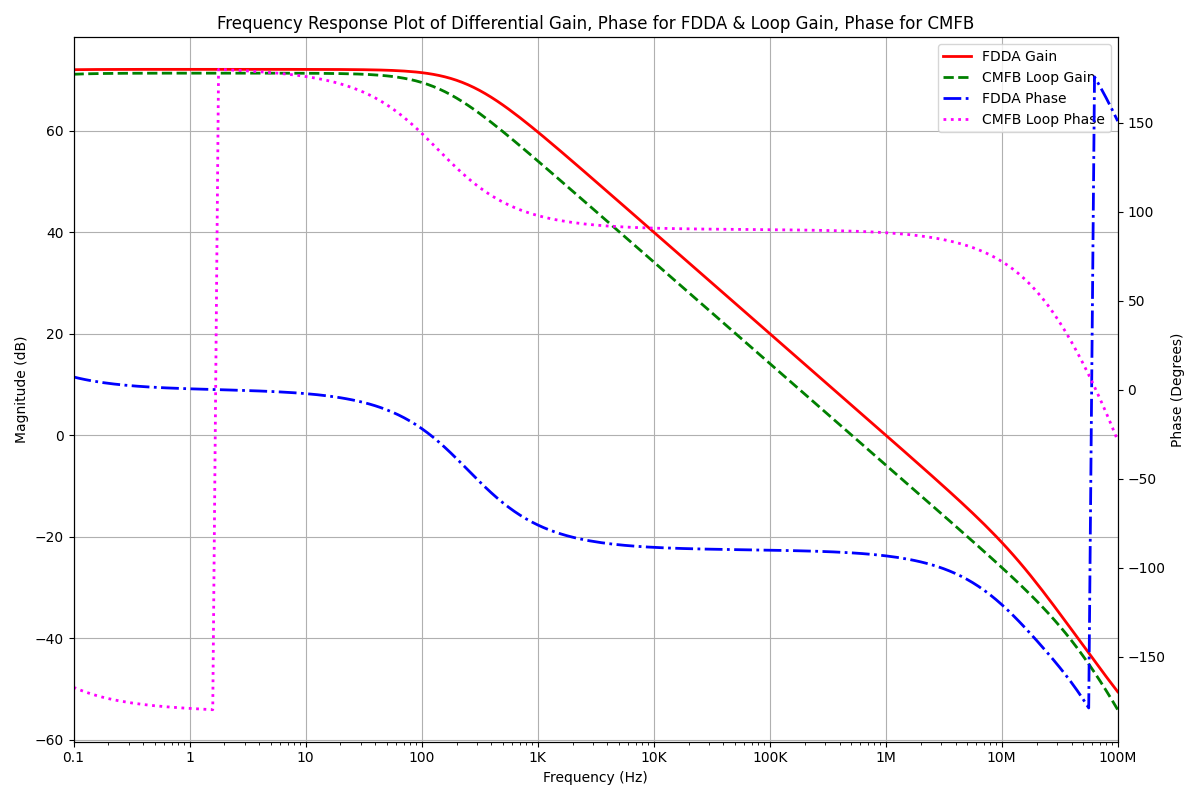
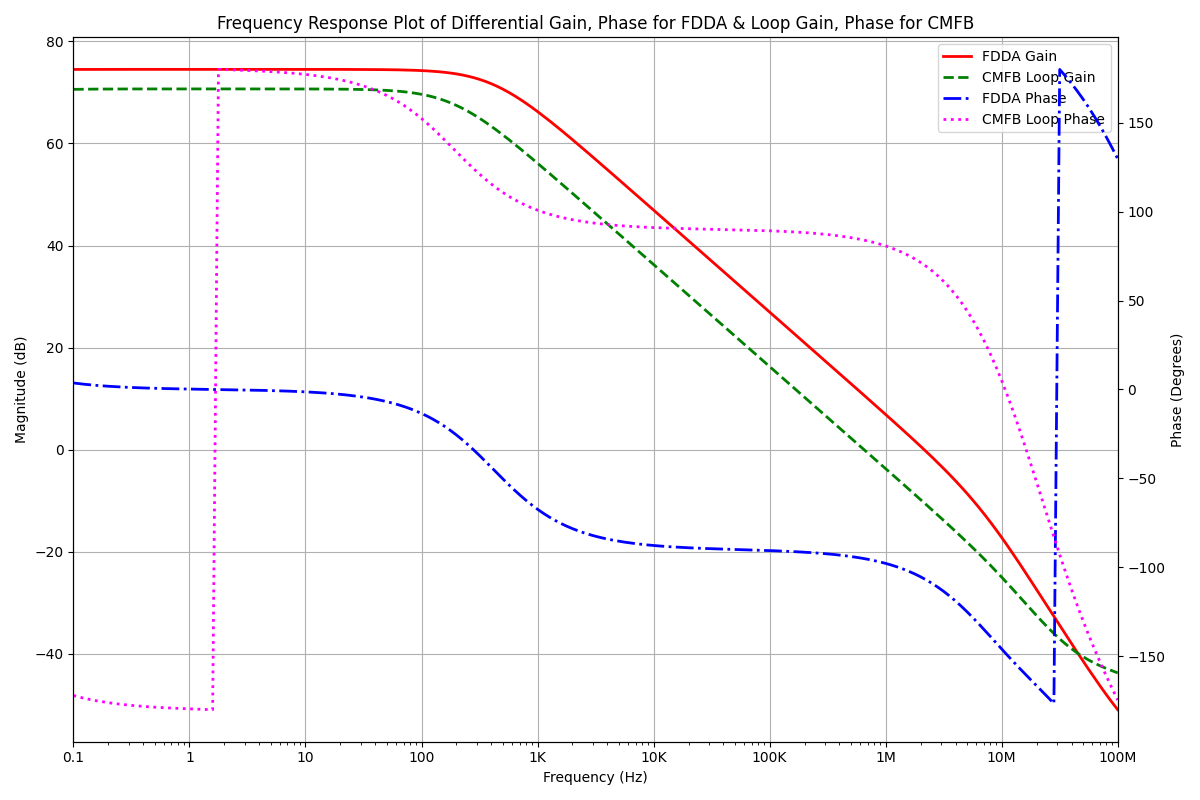
Testing noise for a large width device

diff --git a/Complete Framework/FDDA_CMFB/test.py b/Complete Framework/FDDA_CMFB/test.py
@@ -6,16 +6,20 @@ from simulator import evaluate_design
 
 if __name__ == "__main__":
     # Example particle
-    particle = np.array([18, 15, 15, 15, 15, 15, 13, 13, 13, 13, 13, 13, 5e-6, 1.5, 0.3])
+    particle = np.array([19.1743, 14.2497, 12.1117, 12.5996, 12.0605, 11.0269, 6, 15, 8, 15, 14, 8, 15, 4.4422e-6])
     
     passed, area, specs = survivability_test(particle)
     
     if passed:
-        print("Particle meets all specifications!")
-        print(f"Area: {area:.2e} m^2")
-        print("Specifications:")
-        for spec_name, spec_value in specs.items():
-            print(f"  {spec_name}: {spec_value:.2e}")
+        print(f"\nArea: {area:.2f} μm²")
+
+        print("\n--- Performance Calculations ---")
+        if 'Gain_dB' in specs: print(f"  Gain_dB: {specs['Gain_dB']:.2f} dB")
+        if 'GBW' in specs:     print(f"  GBW:     {specs['GBW'] / 1e6:.2f} MHz")
+        if 'PM' in specs:      print(f"  PM:      {specs['PM']:.2f} °")
+        if 'SR' in specs:      print(f"  SR:      {specs['SR'] / 1e6:.2f} V/µs")
+        if 'Power' in specs:   print(f"  Power:   {specs['Power'] * 1e6:.2f} µW")
+        if 'V_CMFB' in specs:  print(f"  V_CMFB:  {specs['V_CMFB']:.4f} V")
 
         current_params = {
                 'W_1': specs['W_1'], 'L_1': specs['L_1'],
@@ -33,9 +37,31 @@ if __name__ == "__main__":
                 'V_CM': VCM
             }            
         sim_passed, meas = evaluate_design(current_params)
-        print("\nSimulation Results:")
-        for meas_name, meas_value in meas.items():
-            print(f"  {meas_name}: {meas_value:.2e}")
+
+        print("\n--- Performance Measurements ---")
+        if 'Gain_dB' in meas: print(f"  Gain_dB: {meas['Gain_dB']:.2f} dB")
+        if 'GBW' in meas:     print(f"  GBW:     {meas['GBW'] / 1e6:.2f} MHz")
+        if 'PM' in meas:      print(f"  PM:      {meas['PM']:.2f} °")
+        if 'SR' in meas:      print(f"  SR:      {meas['SR'] / 1e6:.2f} V/µs")
+        if 'Power' in meas:   print(f"  Power:   {meas['Power'] * 1e6:.2f} µW")
+        if 'V_CMFB' in meas:  print(f"  V_CMFB:  {meas['V_CMFB']:.4f} V")
+        if 'CMRR_dB' in meas: print(f"  CMRR_dB: {meas['CMRR_dB']:.2f} dB")
+        if 'PSRR_dB' in meas: print(f"  PSRR_dB: {meas['PSRR_dB']:.2f} dB")
+
+        print("\n--- Transistor Dimensions ---")
+        # Loops from 1 through 8 to catch all your W and L pairs
+        for i in range(1, 9):
+            w_key, l_key = f"W_{i}", f"L_{i}"
+            if w_key in meas and l_key in meas:
+                # Pads the string for clean alignment
+                print(f"  W_{i} = {meas[w_key]:<6.2f} μm,  L_{i} = {meas[l_key]:.2f} μm")
+
+        print("\n--- Bias Voltages ---")
+        # Loops from 1 through 4 to catch all your V_B nodes
+        for i in range(1, 5):
+            v_key = f"V_B{i}"
+            if v_key in meas:
+                print(f"  {v_key}: {meas[v_key]:.4f} V")
     else:
         print("Particle does NOT meet specifications.\n")
         print(specs)

diff --git a/Complete Framework/FDDA_CMFB/Final_Simulation/results.py b/Complete Framework/FDDA_CMFB/Final_Simulation/results.py
@@ -378,7 +378,7 @@ def runsim_NOISE(measurement_results):
     circuit.C('CFB2', 'V_NN', circuit.gnd, 4@u_GF)
 
     # Define AC Input (Single Source)
-    circuit.V('VPP', 'V_PP', circuit.gnd, 'DC 0.9 AC 1')
+    circuit.V('VPP', 'V_PP', 'V_NP', 'DC 0 AC 1')
     circuit.V('VNP', 'V_NP', circuit.gnd, 'DC 0.9')
 
     simulator = circuit.simulator(temperature=27, nominal_temperature=27)
@@ -606,7 +606,7 @@ def evaluate_design(current_params, plots=False):
     # Run the Noise simulation and measure input-referred RMS noise voltage
     if specs_met:
         runsim_NOISE(measurement_results=current_results)
-        specs_met = (current_results['Noise_in'] <= noise_spec)
+        # specs_met = (current_results['Noise_in'] <= noise_spec)
 
     # Run the CMFB simulation and measure CMFB loop gain and GBW
     if specs_met:
@@ -626,18 +626,18 @@ def evaluate_design(current_params, plots=False):
 
     return specs_met, current_results
     
-params = {'W_1': 73.91, 'L_1': 0.3,
-          'W_2': 0.9, 'L_2': 0.8,
-          'W_3': 0.62, 'L_3': 0.8,
-          'W_4': 0.75, 'L_4': 3,
-          'W_5': 1.95, 'L_5': 2,
-          'W_6': 5.12, 'L_6': 1,
-          'W_7': 21.08, 'L_7': 0.2,
-          'W_8': 4.25, 'L_8': 0.8,
-          'V_B1': 0.7056,
-          'V_B2': 0.7057,
-          'V_B3': 1.0395,
-          'V_B4': 0.3061,
+params = {'W_1': 285.21, 'L_1': 0.3,
+          'W_2': 9.45, 'L_2': 3,
+          'W_3': 0.81, 'L_3': 0.5,
+          'W_4': 1.14, 'L_4': 3,
+          'W_5': 3.53, 'L_5': 2,
+          'W_6': 3.17, 'L_6': 0.5,
+          'W_7': 49.54, 'L_7': 3,
+          'W_8': 46.48, 'L_8': 3,
+          'V_B1': 0.6978,
+          'V_B2': 0.7133,
+          'V_B3': 1.0602,
+          'V_B4': 0.3390,
           'V_CM': 0.9}
 
 if __name__ == "__main__":
